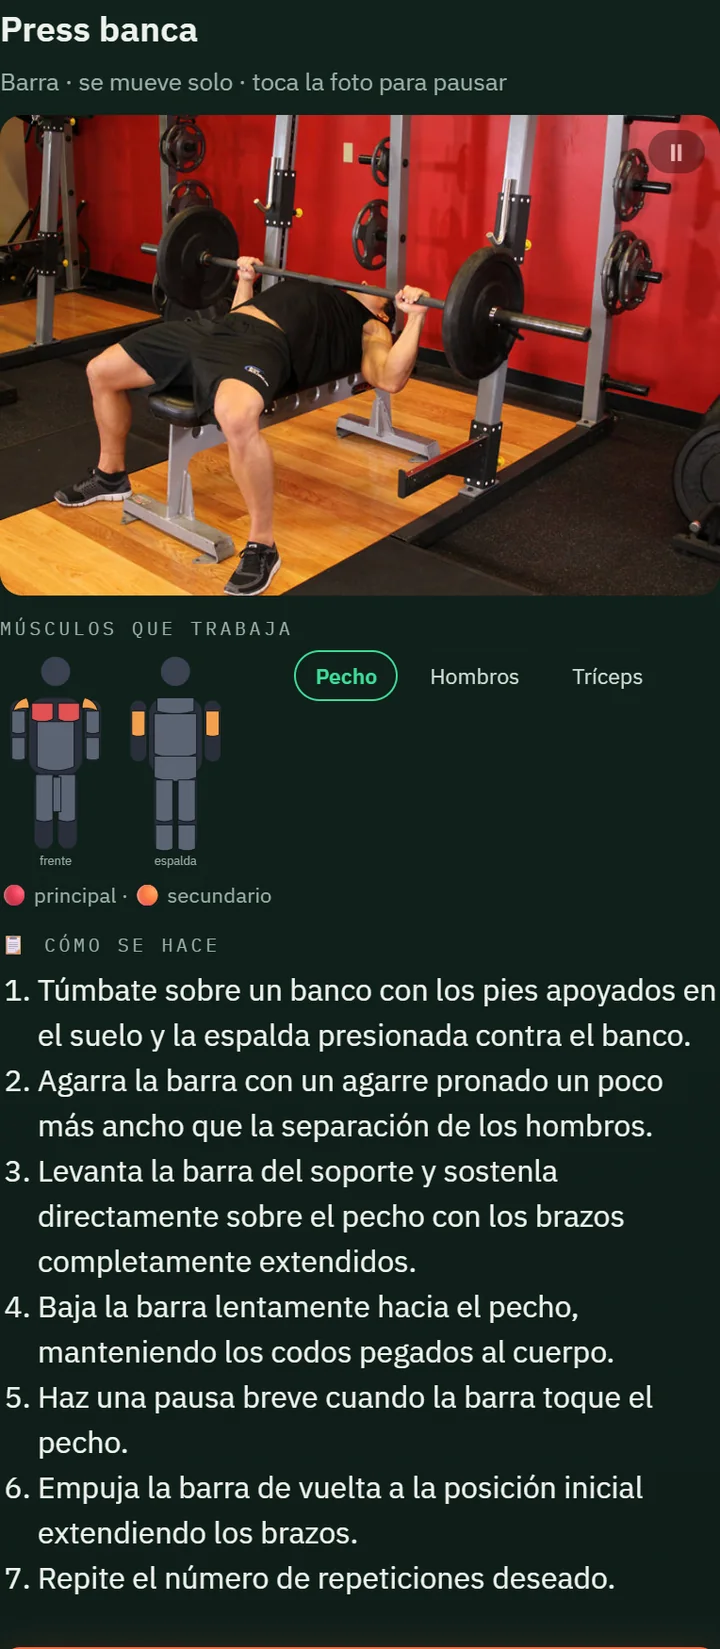
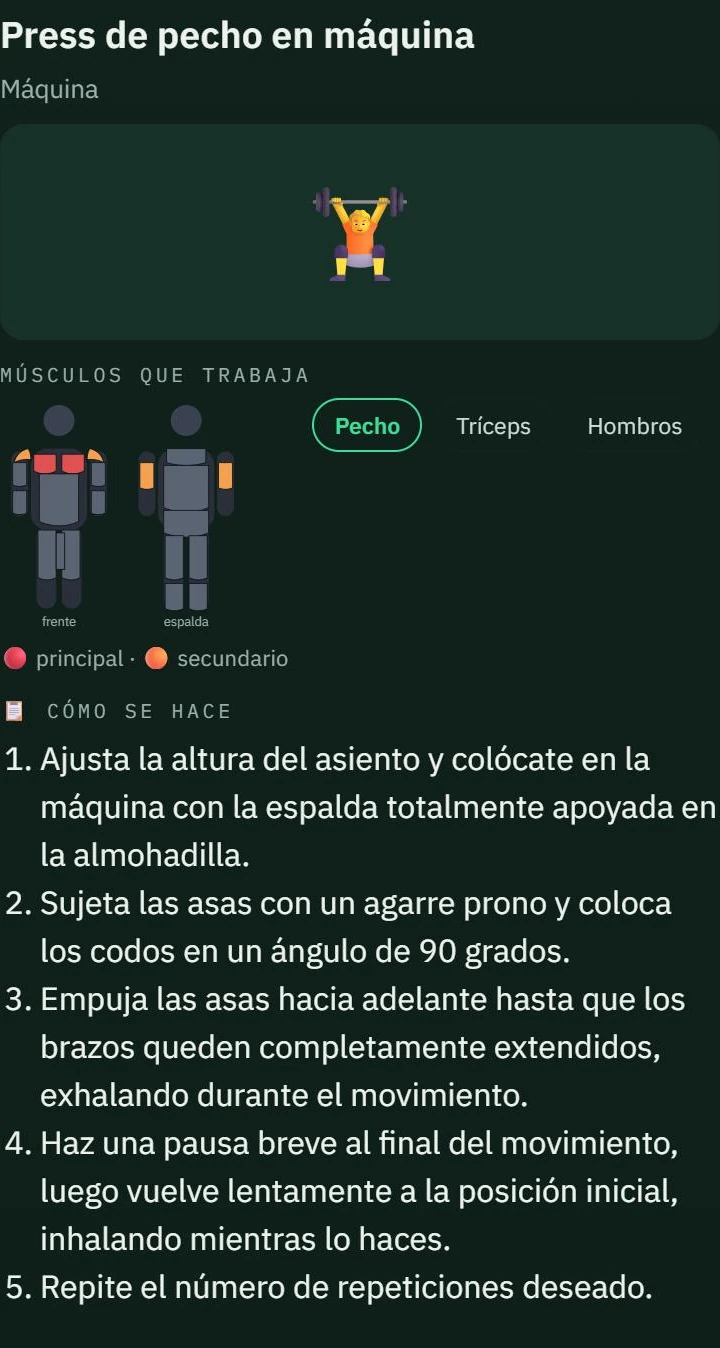
feat(showcase): recapture the exercise and scanner screenshots
Pablo 02-11 decisions 5 and 6: the exercise card is now one WITHOUT a photo (Press de pecho en maquina: license of the photos still unaudited) and the scanner capture no longer shows the broken-image icon. Both are real screens of the published app at 720 px wide. The label in the viewfinder is a staged image because there is no camera, as in the previous capture.

diff --git a/showcase.html b/showcase.html
@@ -662,7 +662,7 @@ html.fx-fin .stage__node{animation:none !important}
         <p class="lead">Apunta a la tabla nutricional y la app la lee: energía, macros, sal y azúcares. También escanea <strong>códigos de barras</strong>.</p>
       </div>
       <div class="frow__media">
-        <figure class="shot"><img src="assets/shots/label-scanner.webp" alt="Modo «Escanear etiqueta» de JV Fitness: una tabla de información nutricional encuadrada dentro del recuadro guía de la cámara, con las fuentes de datos Open Food Facts y BEDCA/AESAN al pie." width="720" height="1145" loading="lazy"></figure>
+        <figure class="shot"><img src="assets/shots/label-scanner.webp" alt="Modo «Escanear etiqueta» de JV Fitness: una tabla de información nutricional encuadrada dentro del recuadro guía de la cámara, con las fuentes de datos Open Food Facts y BEDCA/AESAN al pie." width="720" height="1288" loading="lazy"></figure>
       </div>
     </div>
 
@@ -673,7 +673,7 @@ html.fx-fin .stage__node{animation:none !important}
         <p class="lead">Todos llevan mapa muscular: pinta en <strong style="color:var(--ember)">rojo el músculo principal</strong> y en naranja los secundarios. Más de 1.250 traen además las instrucciones paso a paso. De un vistazo sabes qué estás trabajando.</p>
       </div>
       <div class="frow__media">
-        <figure class="shot shot--tall"><img src="assets/shots/exercise-anatomy.webp" alt="Ficha del ejercicio «Press banca» en JV Fitness: dos siluetas (frente y espalda) con el pecho resaltado en rojo y los hombros en naranja, los músculos que trabaja y las instrucciones «Cómo se hace» paso a paso." width="720" height="1649" loading="lazy"></figure>
+        <figure class="shot shot--tall"><img src="assets/shots/exercise-anatomy.webp" alt="Ficha del ejercicio «Press de pecho en máquina» en JV Fitness: dos siluetas (frente y espalda) con el pecho resaltado en rojo y los hombros y tríceps en naranja, los músculos que trabaja y las instrucciones «Cómo se hace» paso a paso." width="720" height="1348" loading="lazy"></figure>
       </div>
     </div>
     <div class="spec-grid">
